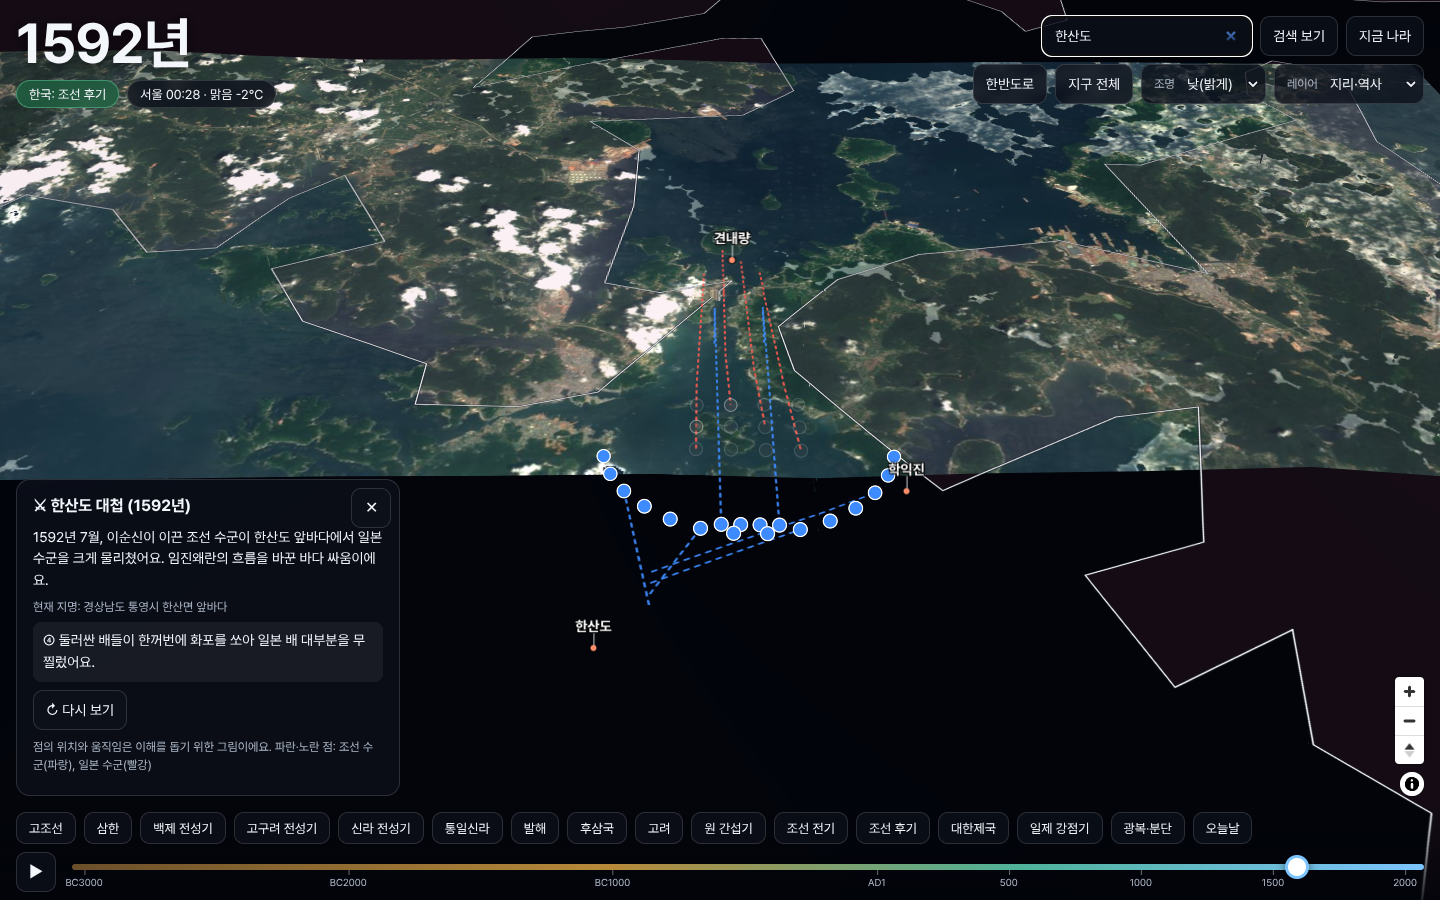
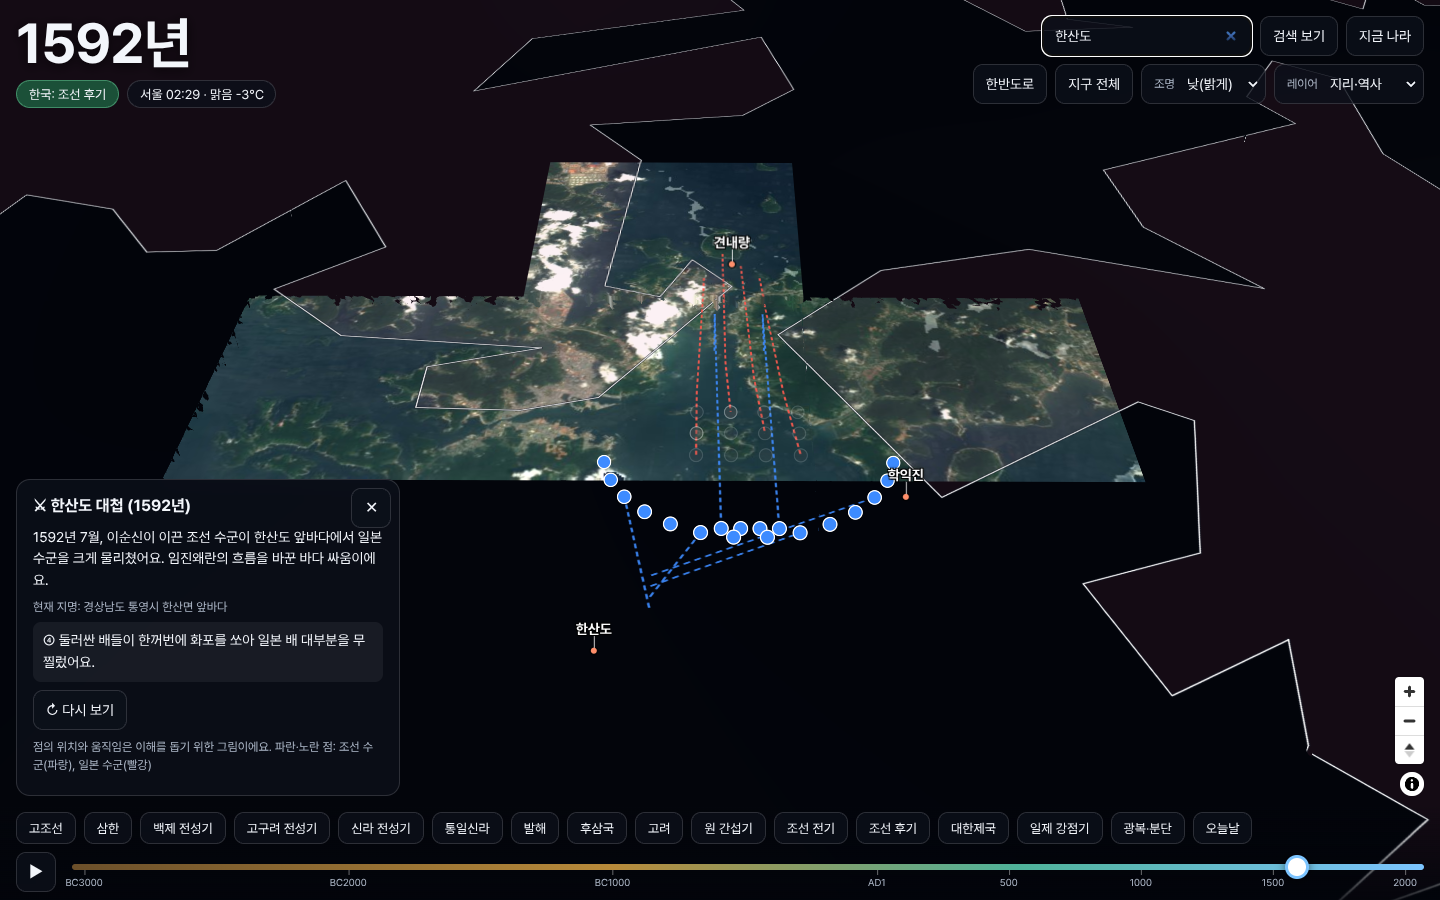
최종 정리: 라이브 스크린샷·성능 기록·프로젝트 상태 갱신

diff --git a/PROJECT.md b/PROJECT.md
@@ -11,7 +11,7 @@ run: npm run dev
 needs: Node 20+, Vercel(emergency-lee) 커넥터 배포
 next: GitHub 저장소 생성(커넥터 권한 403) 후 푸시
 created: 2026-11-20
-updated: 2026-11-20
+updated: 2026-11-21
 ---
 
 # historyearth — 역사 지구본
@@ -51,3 +51,4 @@ updated: 2026-11-20
 - 2026-11-20 프로젝트 생성
 - 2026-11-20 지구본·타임라인·레이어 4종·전투 2곳·검색·모바일 구현, Vitest 32개 통과
 - 2026-11-20 지도 품질 개선(10m 해안선, 한반도 경계 재작성, Blue Marble·음영, 라벨) + 8px 격자 정렬·정렬 검사 테스트. Vercel 운영 배포·라이브 검증 13/13. GitHub 푸시는 커넥터 저장소 생성 권한 부족으로 보류
+- 2026-11-21 t7u 반영: 국경 정밀화(10m 국경·강 맞춤, 해안 채우기), 명·북원·여진 자체 영역, 한글 이름(라틴 0 테스트), 400ms 크로스페이드, 단순화 실험 DP 1km 선택, 운영 재배포 dpl_By1Z3LNnvkiWE8JhAeqRLGdeNpfG
